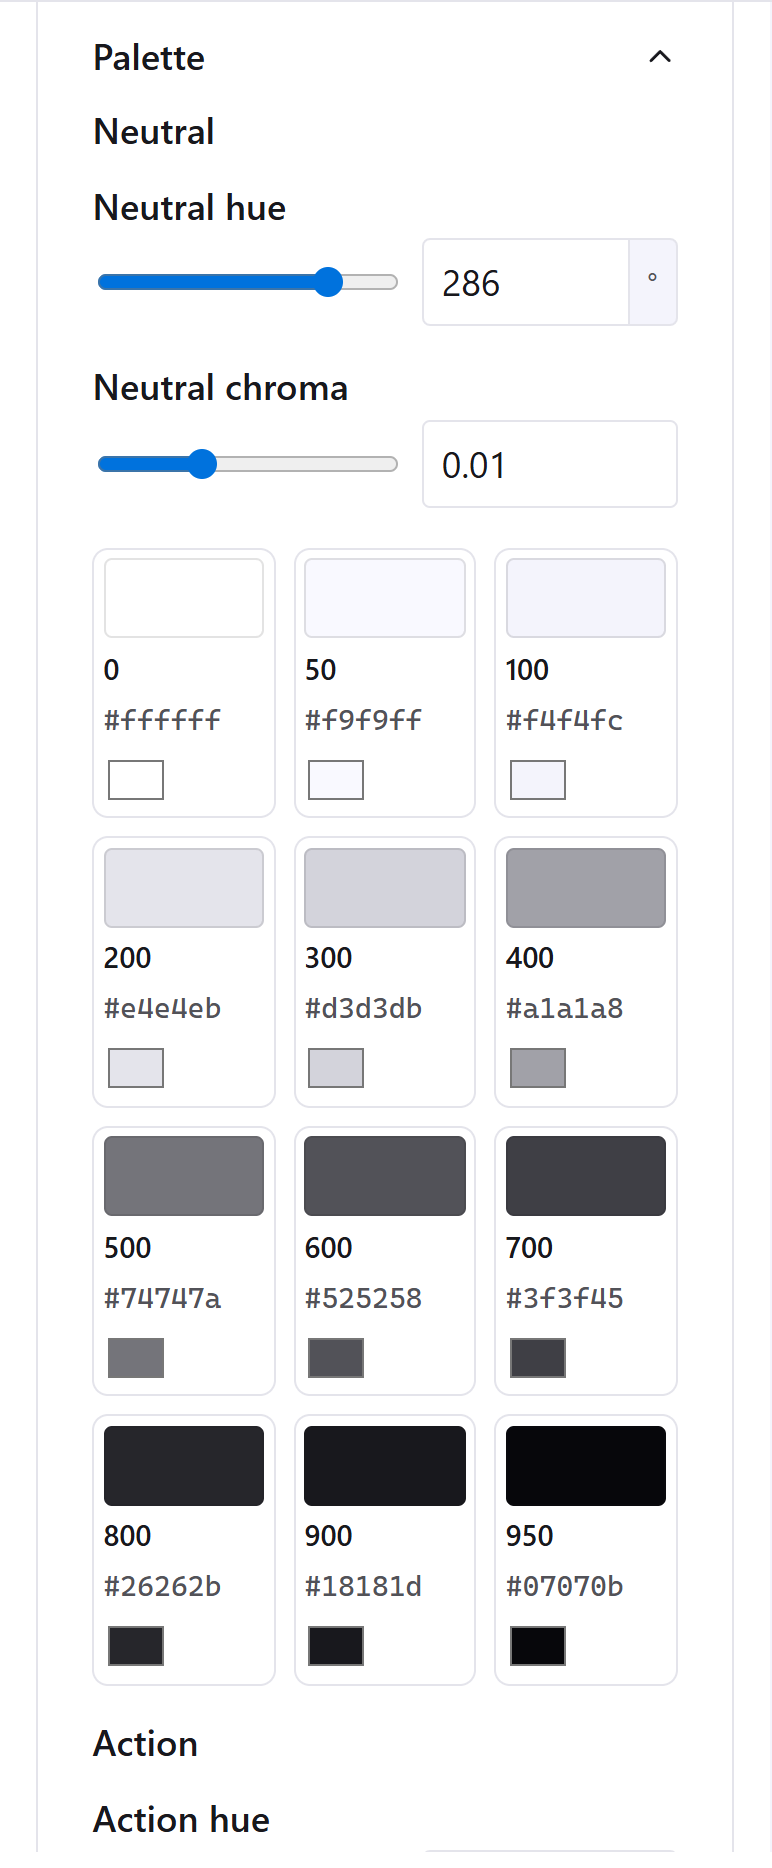
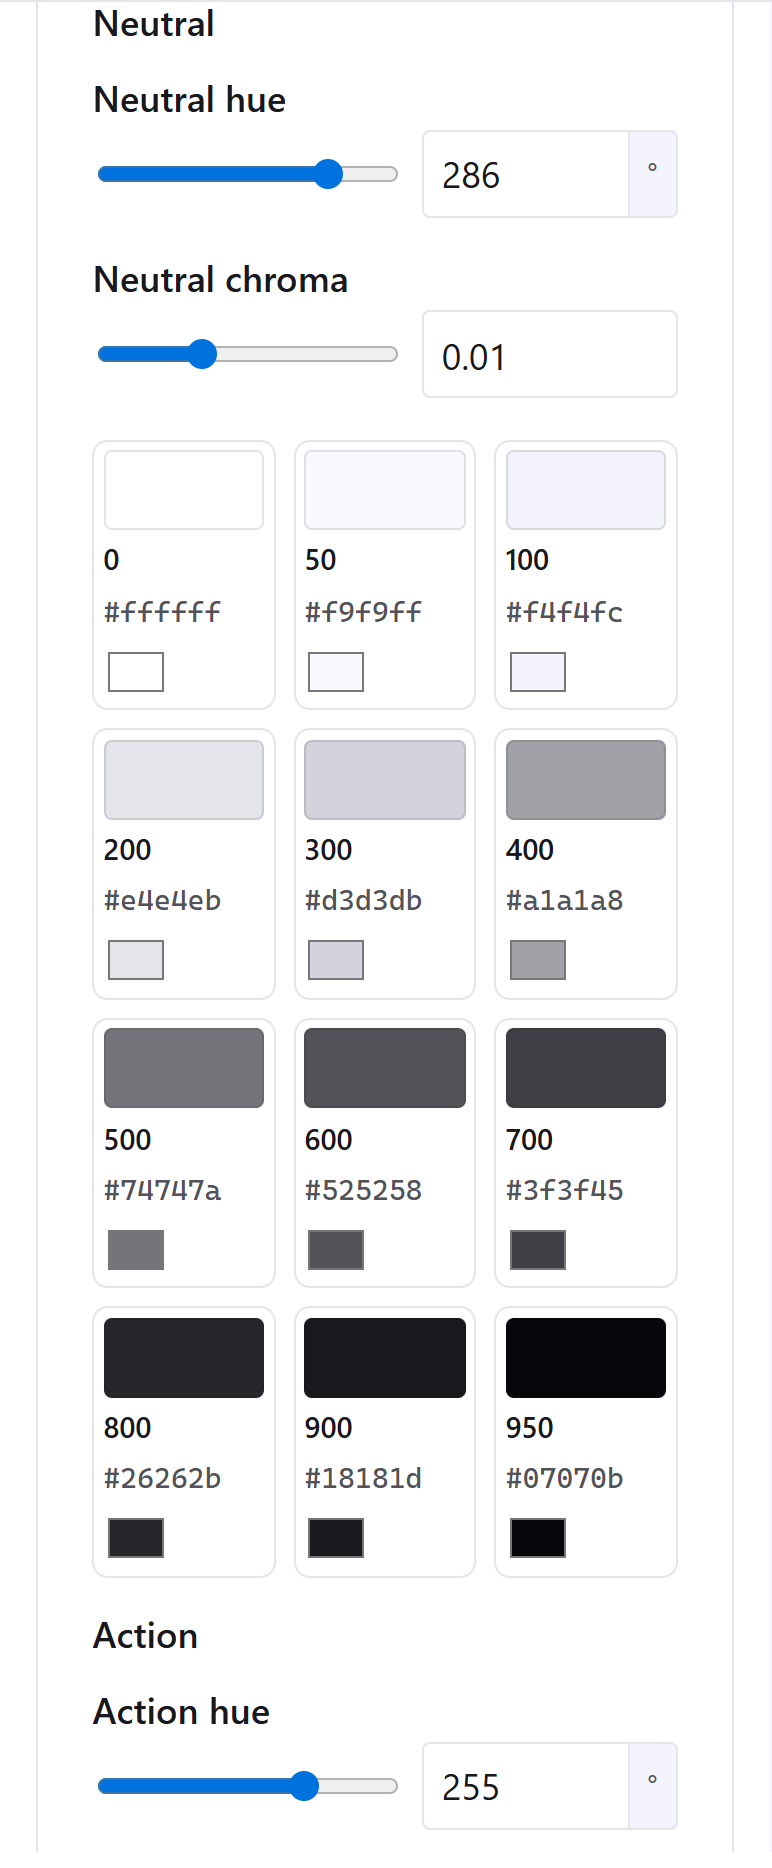
docs: walk through the palette generator

diff --git a/docs/CONFIGURATOR.md b/docs/CONFIGURATOR.md
@@ -33,6 +33,30 @@ Spacing is fluid too, and uses the same viewports. Set the base space (usually e
 
 ## 3. Palette
 
+### Generating a palette
+
+![The palette generator: seven colour slots with padlocks, Generate, harmony and vividness controls, a brand colour field, the adjustments it made and a history of palettes](images/configurator-generator.png)
+
+The top of the Palette panel can make a whole palette for you, quickly. It picks a hue for each role (neutral, action, accent and the four statuses) rather than five arbitrary colours, and the lightness of every text, surface and border is already fixed by the palette's recipes, so what it produces is coherent from the start. Its job is to make it good, and to keep the contrast table green.
+
+- **Generate** rerolls every slot that isn't locked. With the slot list focused, **Space** does the same.
+- **Padlocks** keep a slot as it is. **Lock all** and **Unlock all** do every slot at once.
+- **Harmony** sets how the accent relates to the action colour: analogous, complementary, split-complementary, triadic, or random (which picks one of those).
+- **Vividness** is one colourfulness for action and accent, with the statuses at 0.8 of it and the neutral barely tinted. Matching saturation is most of what makes a palette look designed.
+- Status colours always stay in their families: danger red-ish, warning amber, success green-ish, info blue-ish, at the point nearest the harmony. Otherwise alerts would be misread.
+
+After every palette, the generator checks every pair in the contrast table in both schemes, and fixes any that fall short of WCAG AA. It changes the lightness behind the colour first, then lowers its chroma, then nudges a status hue towards the edge of its band. A change is kept only if it doesn't break another pair. Each one is listed under **Adjusted to meet AA** with an undo button. Anything it still can't fix is listed as **Best available**, with its ratio. A locked slot never changes hue, though its lightness or chroma may, and the list says so.
+
+Links and buttons share the action colour, and pull it in opposite directions: white text on a button wants it dark, a link on the dark page wants it light. When that bites, the generator moves dark-scheme links to the lighter action step (`--action-400`), so both pass.
+
+**Start from a colour** takes a hex code, a brand colour, say. It becomes the locked action colour, and everything else follows from it. If white text can't sit on it, the panel says how far it moved the colour to make it pass (a hard yellow like `#ffd500` becomes a darker gold). **Use exact hex anyway** keeps your colour exactly and switches the text on it to dark instead.
+
+**History** keeps the last ten palettes; click one to bring it back. The generator's settings, locks and history are saved with your draft and travel in a **Copy link**, but they stay out of every export: the theme gets only the palette itself.
+
+Harmony rules are heuristics. The generator is for exploring quickly; looking at the preview is still the decision. It doesn't pull colours from photos; that's a different tool.
+
+### Hues and chroma by hand
+
 ![Palette controls: neutral hue and chroma, with the generated neutral ramp as swatches](images/configurator-palette.png)
 
 Colours are chosen as a **hue** (0 to 360 degrees around the colour wheel) and a **chroma** (how colourful), in the perceptual OKLCH colour space. The tool generates each ramp from those two numbers, so the steps stay evenly spaced in lightness and every colour is checked to fit within what screens can show.

diff --git a/README.md b/README.md
@@ -265,7 +265,7 @@ To change a derived value, change its input. An explicit value inside a derived 
 
 ### 2. The Configurator (tools/configure.html)
 
-Use it [hosted on GitHub Pages](https://stockol.github.io/looseleaf-ui/), or open `tools/configure.html` by double-clicking it (no server needed). It previews the real demo page in a resizable frame while you adjust the Utopia scales, palette hues, fonts, radii, motion (with a spring designer) and default styles, and shows a live WCAG contrast table for both schemes. **Export** offers a theme bundle for projects (see [Theming](#theming)), the `design-tokens.json` source, or the compiled tokens CSS on the clipboard. To change this repository's defaults, save the source over `design-tokens.json` and run `npm run build`. The preview uses the same compiler as the build, so what you see is exactly what you get. The [walkthrough](docs/CONFIGURATOR.md) covers each control with screenshots.
+Use it [hosted on GitHub Pages](https://stockol.github.io/looseleaf-ui/), or open `tools/configure.html` by double-clicking it (no server needed). It previews the real demo page in a resizable frame while you adjust the Utopia scales, palette hues, fonts, radii, motion (with a spring designer) and default styles, and shows a live WCAG contrast table for both schemes. **Export** offers a theme bundle for projects (see [Theming](#theming)), the `design-tokens.json` source, or the compiled tokens CSS on the clipboard. To change this repository's defaults, save the source over `design-tokens.json` and run `npm run build`. The preview uses the same compiler as the build, so what you see is exactly what you get. It can also generate a whole palette, from scratch or from a brand colour, and repair it so every contrast pair meets AA. The [walkthrough](docs/CONFIGURATOR.md) covers each control with screenshots.
 
 ### 3. The Compiler (scripts/build-tokens.js)
 
@@ -287,6 +287,8 @@ looseleaf-ui/
 │   ├── tokens-core.mjs        <-- Pure token compiler (shared with the configurator)
 │   ├── utopia.mjs             <-- Pure fluid type and space maths
 │   ├── spring.mjs             <-- Pure spring simulation, emitted as a linear() easing
+│   ├── harmony.mjs            <-- Pure palette generator (hue bands, harmonies, seeded)
+│   ├── solver.mjs             <-- Pure contrast repair for generated palettes
 │   ├── color.mjs              <-- Pure OKLCH and WCAG contrast maths
 │   ├── zip.mjs                <-- Pure store-only ZIP writer (theme bundles)
 │   ├── build-tokens.js        <-- Writes variables.css, tokens.resolved.json, TOKENS.md

diff --git a/CHANGELOG.md b/CHANGELOG.md
@@ -4,6 +4,25 @@ All notable changes to LooseLeaf UI and `django-looseleaf`, which share one vers
 
 ## [Unreleased]
 
+### Added
+
+- A palette generator at the top of the configurator's Palette panel:
+  - **Generate** (or Space on the slot list) rerolls every unlocked slot: neutral, action, accent and the four statuses.
+  - Harmony modes (analogous, complementary, split-complementary, triadic, random) and one vividness for every chroma.
+  - Status hues stay inside their colour families.
+  - A padlock per slot, Lock all and Unlock all.
+  - **Start from a colour** for a brand hex, with **Use exact hex anyway**.
+  - A history of the last ten palettes.
+- Contrast repair for generated palettes:
+  - Every failing pair is fixed by adjusting lightness, then chroma, then a status hue, never breaking a pair that passed.
+  - Each adjustment is listed with an undo button, and anything unfixable is shown as "best available".
+- `scripts/harmony.mjs` and `scripts/solver.mjs`, pure modules bundled into the configurator, with tests.
+- `--action-400` and `--accent-400`: a lighter step of each brand hue. The generator moves dark-scheme links onto `--action-400` when white text on buttons needs action darker than a dark-page link can be.
+
+### Changed
+
+- The configurator saves the generator's settings, locks and history in the draft (so Copy link carries them) under `$generator`, which every export leaves out.
+
 ## [2.4.0] - 2026-10-29
 
 ### Added
